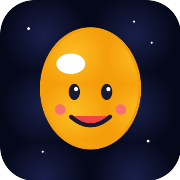
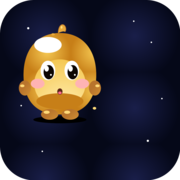
R2.2.5: 新图标 + 撤回逻辑统一 + 测试补强

diff --git a/tests/integration/questFlow.test.tsx b/tests/integration/questFlow.test.tsx
@@ -152,6 +152,81 @@ describe('QuestPage 渲染（核心 happy path 回归）', () => {
     }, { timeout: 3000 });
   });
 
+  // R2.2.5 回归：撤回完成的任务后，重新进闯关应当看到任务（不能"显示没有任务"）
+  it('完成 → 撤回后再进闯关：应当显示"我要开始"，不是"全部击败"', async () => {
+    // 起始状态：1 个 done 任务 + schedule 已 completed（模拟刚完成全部）
+    await db.tasks.put(scheduledTask({
+      id: 'task_raz', status: 'done', completedAt: Date.now() - 60_000,
+    }));
+    await db.schedules.put({
+      ...lockedSchedule(['task_raz']),
+      completedAt: Date.now() - 60_000,
+    });
+
+    // 模拟 HomePage 的"撤回"：status → scheduled，schedule.completedAt 清空
+    await db.tasks.update('task_raz', {
+      status: 'scheduled',
+      completedAt: undefined,
+      undoCount: 1,
+    });
+    await db.schedules.update('sch_today', {
+      completedAt: undefined,
+      comboPeakInRound: undefined,
+      comboBonusPoints: undefined,
+      reportShownAt: undefined,
+    });
+
+    renderQuest();
+    // 撤回后应该重新显示"我要开始"按钮，而不是空白或"全部击败"
+    await waitFor(() => {
+      expect(screen.getByText(/我要开始/)).toBeInTheDocument();
+    }, { timeout: 3000 });
+    expect(screen.queryByText(/全部击败/)).toBeNull();
+    expect(screen.queryByText(/这里没有进行中的闯关/)).toBeNull();
+  });
+
+  it('多任务 + 撤回中间一个：QuestPage 正确选中被撤回的任务', async () => {
+    // 模拟 3 个任务的时间轴，全部完成后用户撤回中间那个
+    await db.tasks.bulkPut([
+      scheduledTask({ id: 't1', title: 'task A', status: 'evaluated', completedAt: Date.now() - 90_000 }),
+      scheduledTask({ id: 't2', title: 'task B', status: 'done', completedAt: Date.now() - 60_000 }),
+      scheduledTask({ id: 't3', title: 'task C', status: 'evaluated', completedAt: Date.now() - 30_000 }),
+    ]);
+    await db.schedules.put({
+      ...lockedSchedule(['t1', 't2', 't3']),
+      completedAt: Date.now() - 30_000,
+    });
+
+    // 撤回中间的 task B（HomePage 版本：status → scheduled）
+    await db.tasks.update('t2', { status: 'scheduled', completedAt: undefined });
+    await db.schedules.update('sch_today', { completedAt: undefined });
+
+    renderQuest();
+    // QuestPage 应当跳过 t1 / t3（evaluated）找到 t2（scheduled）作为 active
+    await waitFor(() => {
+      expect(screen.getByText(/我要开始/)).toBeInTheDocument();
+    }, { timeout: 3000 });
+    expect(screen.getAllByText('task B').length).toBeGreaterThan(0);
+  });
+
+  it('已 evaluated 的任务不能撤回 — 但若 schedule.completedAt 被人为清掉，QuestPage 仍渲染"全部击败"而不是空白', async () => {
+    await db.tasks.put(scheduledTask({
+      status: 'evaluated', completedAt: Date.now() - 60_000,
+    }));
+    // 模拟用户用了"仅重置当前任务状态"按钮，把 schedule.completedAt 清了
+    // 但 evaluated 任务不会被重置（reset 逻辑只动 scheduled/inProgress）
+    await db.schedules.put({
+      ...lockedSchedule(['task_raz']),
+      // completedAt 缺失
+    });
+
+    renderQuest();
+    // 没有任何活动任务（全 evaluated），应该看到"全部击败"
+    await waitFor(() => {
+      expect(screen.getByText(/全部击败/)).toBeInTheDocument();
+    }, { timeout: 3000 });
+  });
+
   it('schedule 卡死（任务全 done 但 completedAt 未写）→ 自愈应该修复，不渲染空白', async () => {
     await db.tasks.bulkPut([
       scheduledTask({ id: 't1', status: 'done', completedAt: Date.now() }),

diff --git a/src/pages/QuestPage.tsx b/src/pages/QuestPage.tsx
@@ -329,17 +329,31 @@ export function QuestPage() {
   }
 
   // === 撤回 ===
+  // R2.2.5: 与 HomePage 的撤回行为对齐 —— 把任务重置回 'scheduled' 而不是
+  // 'inProgress'。'inProgress' 会保留旧的 actualStartedAt 让倒计时显示
+  // 离谱的"已过期"状态。'scheduled' 让孩子可以重新点"我要开始"，干净。
   async function undoComplete(taskId: string) {
     const t = await db.tasks.get(taskId);
     if (!t || !canUndoCompletion(t)) return;
-    if (!confirm('确定撤回？这一项会变回"闯关中"，可以重新点完成。')) return;
+    if (!confirm('确定撤回？这一项会回到"待开始"，可以重新点开始。')) return;
     await db.tasks.update(taskId, {
-      status: 'inProgress',
+      status: 'scheduled',
       completedAt: undefined,
+      actualStartedAt: undefined,
+      pausedAt: undefined,
+      pauseSecondsUsed: undefined,
+      pauseCount: undefined,
+      firstEncounteredAt: undefined,
+      startNagSentAt: undefined,
       undoCount: (t.undoCount ?? 0) + 1,
     });
     if (schedule?.completedAt) {
-      await db.schedules.update(schedule.id, { completedAt: undefined, comboPeakInRound: undefined });
+      await db.schedules.update(schedule.id, {
+        completedAt: undefined,
+        comboPeakInRound: undefined,
+        comboBonusPoints: undefined,
+        reportShownAt: undefined,
+      });
     }
     sounds.play('undo');
     toast('已撤回 ↩', 'info');

diff --git a/src/pages/HomePage.tsx b/src/pages/HomePage.tsx
@@ -104,10 +104,17 @@ export function HomePage() {
   async function undoComplete(taskId: string) {
     const t = await db.tasks.get(taskId);
     if (!t || !canUndoCompletion(t)) return;
-    if (!confirm('确定撤回？这一项会变回"闯关中"，可以重新点完成。')) return;
+    if (!confirm('确定撤回？这一项会回到"待开始"，可以重新点开始。')) return;
     await db.tasks.update(taskId, {
       status: 'scheduled',
       completedAt: undefined,
+      // R2.2.5: 撤回时一并清掉 runtime 字段，避免下次进闯关倒计时显示离谱
+      actualStartedAt: undefined,
+      pausedAt: undefined,
+      pauseSecondsUsed: undefined,
+      pauseCount: undefined,
+      firstEncounteredAt: undefined,
+      startNagSentAt: undefined,
       undoCount: (t.undoCount ?? 0) + 1,
     });
     // Bug 修复：撤回后必须清掉本日所有 schedule 的 completedAt + combo，

diff --git a/src/version.ts b/src/version.ts
@@ -1,3 +1,3 @@
 // 程序版本号 - 修改后请 bump 这里，方便用户在 UI 上确认部署生效
-export const APP_VERSION = 'R2.2.4';
+export const APP_VERSION = 'R2.2.5';
 export const APP_BUILD_DATE = '2026-05-13';
